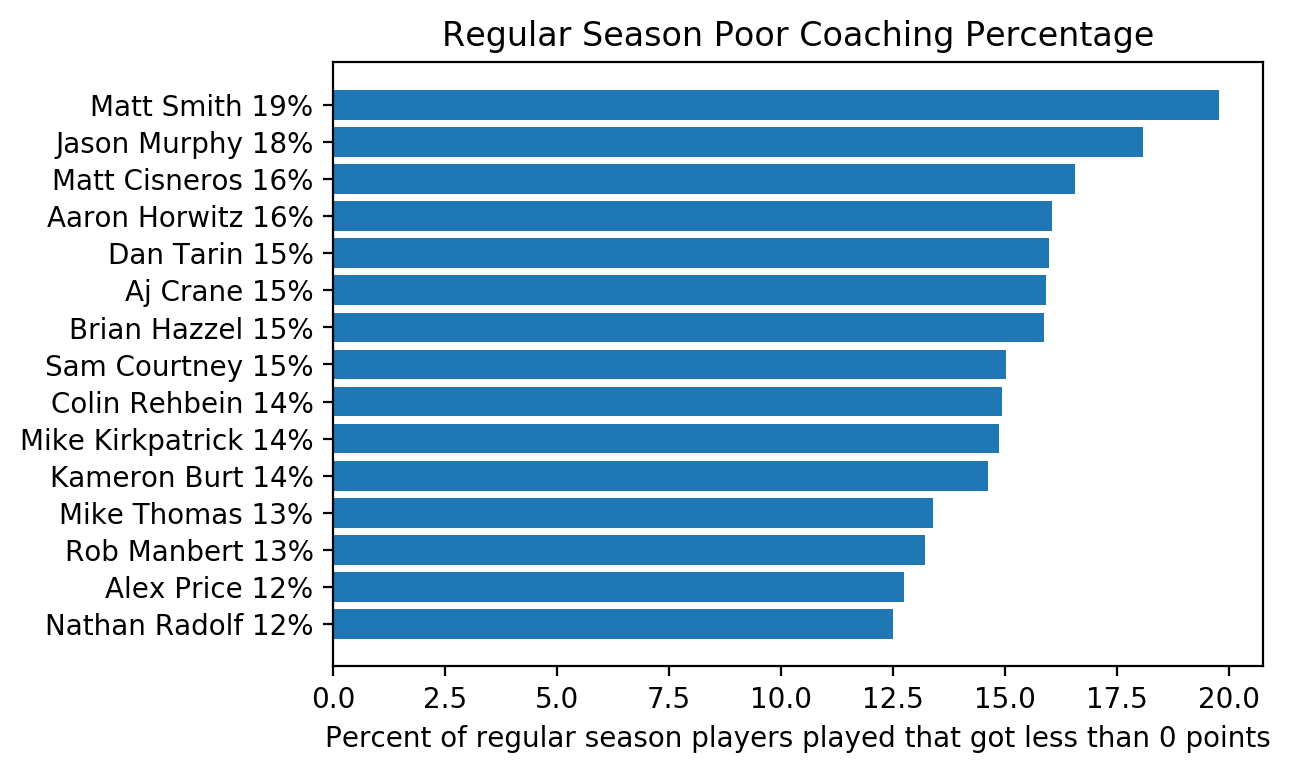
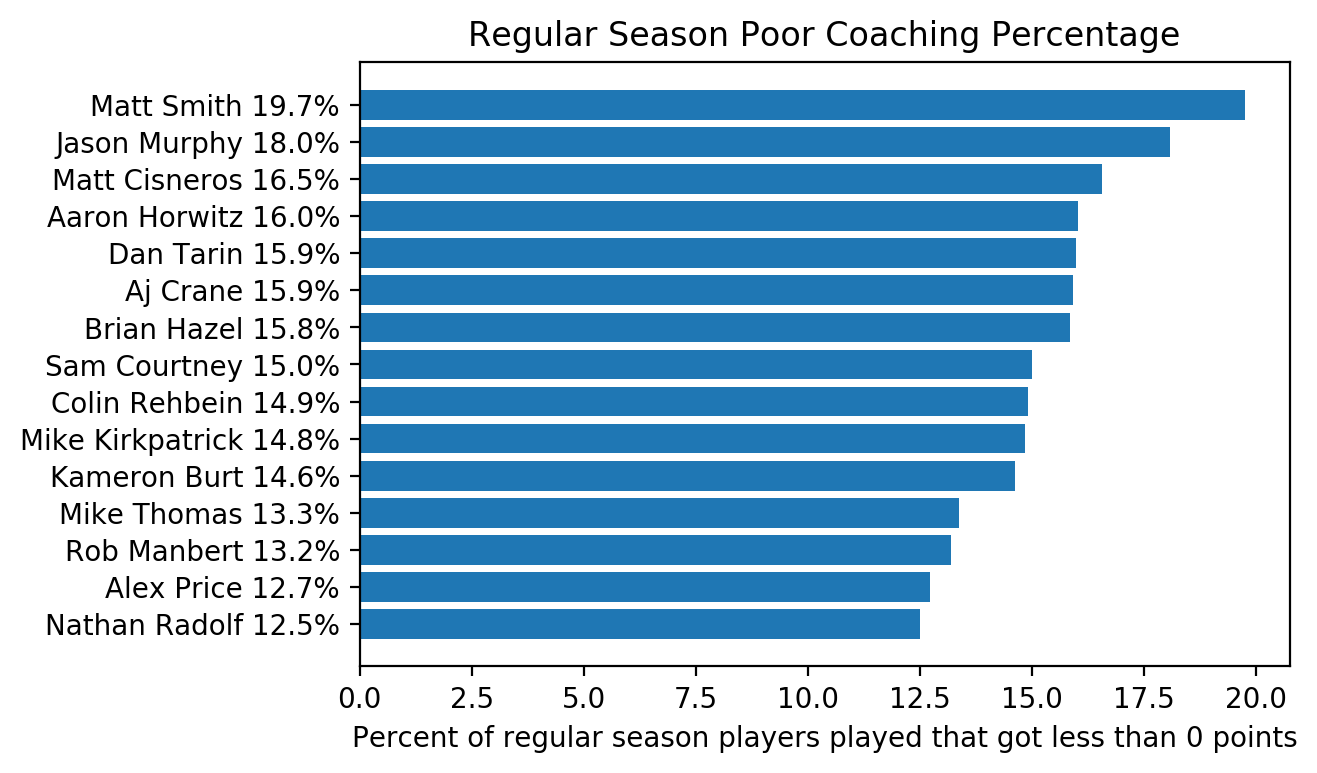
saving work

diff --git a/analyses.py b/analyses.py
@@ -10,15 +10,16 @@ Ideas:
     Regular season:
         -Win percentage
         -Average rank
-        Average points for
-        Average points against
+        -Average points for
+        -Average points against
         -Bullshit wins
         -Shitty losses
-        highest score ever
-        Lowest score ever
-        Bench composition
+        -Highest score ever
+        -Lowest score ever
+        --Bench composition
         -Poor Coaching (players with 0 points not on bench)
-        Transactions
+        -Transactions
+        -Trades
     Playoffs:
         Most appearances
         Most wins
@@ -51,7 +52,7 @@ def assignCoach(row):
     if teamOwner == 'Alex':
         coach = 'Alex Price'
     if teamOwner == 'Brian':
-        coach = 'Brian Hazzel'
+        coach = 'Brian Hazel'
     if teamOwner == 'Colin':
         coach = 'Colin Rehbein'
     if teamOwner == 'Jason':
@@ -140,6 +141,51 @@ oswpDf['playerPosition'] = oswpDf.apply(playerPosition, axis=1)
 
 
 
+#~~~~~~~~~~~~~~~~~~~~~~~~~~~~~~~#
+#     Regular Season Trades     #
+#~~~~~~~~~~~~~~~~~~~~~~~~~~~~~~~#
+def plotRegSeasonAvgTrades(df):
+    measureLabel = 'teamTrades'
+    temp = pd.DataFrame(df.groupby('coach')[measureLabel].mean())
+    temp = temp.sort_values(by=[measureLabel])
+    labels = list(temp.index.values) 
+    y_pos = np.arange(len(temp))
+    newLabels = []
+    for label in labels:
+        newLabel = label +' '+ str(int(temp[measureLabel][label]*10)/10)
+        newLabels.append(newLabel)
+        
+    plt.barh(y_pos, temp[measureLabel])
+    plt.yticks(y_pos, newLabels)
+    plt.title('Regular Season Trades')
+    plt.xlabel('Average number of trades during regular season')
+    plt.savefig('plots/reg_season_trades.png', dpi=200, bbox_inches='tight')
+
+plotRegSeasonAvgTrades(osDf)
+
+
+#~~~~~~~~~~~~~~~~~~~~~~~~~~~~~~~~~~~~~#
+#     Regular Season Transactions     #
+#~~~~~~~~~~~~~~~~~~~~~~~~~~~~~~~~~~~~~#
+def plotRegSeasonAvgTransactions(df):
+    measureLabel = 'teamTransactions'
+    temp = pd.DataFrame(df.groupby('coach')[measureLabel].mean())
+    temp = temp.sort_values(by=[measureLabel])
+    labels = list(temp.index.values) 
+    y_pos = np.arange(len(temp))
+    newLabels = []
+    for label in labels:
+        newLabel = label +' '+ str(int(temp[measureLabel][label]))
+        newLabels.append(newLabel)
+        
+    plt.barh(y_pos, temp[measureLabel])
+    plt.yticks(y_pos, newLabels)
+    plt.title('Regular Season Trasactions')
+    plt.xlabel('Average number of transactions (pickups) during regular season')
+    plt.savefig('plots/reg_season_transactions.png', dpi=200, bbox_inches='tight')
+
+plotRegSeasonAvgTransactions(osDf)
+
 
 #~~~~~~~~~~~~~~~~~~~~~~~~~~~~~~~~~~~~~~~#
 #     Regular Season Win Percentage     #
@@ -152,7 +198,7 @@ def plotRegSeasonWinPct(df):
     y_pos = np.arange(len(temp))
     newLabels = []
     for label in labels:
-        newLabel = label +' '+ str(int(temp[measureLabel][label])) + '%'
+        newLabel = label +' '+ str(int(temp[measureLabel][label]*10)/10) + '%'
         newLabels.append(newLabel)
         
     plt.barh(y_pos, temp[measureLabel])
@@ -160,9 +206,98 @@ def plotRegSeasonWinPct(df):
     plt.title('Regular Season Win Percentage')
     plt.xlabel('Percent of regular season matchups that are wins')
     plt.savefig('plots/reg_season_win_pct.png', dpi=200, bbox_inches='tight')
-    
 
 plotRegSeasonWinPct(osDf)
+
+
+#~~~~~~~~~~~~~~~~~~~~~~~~~~~~~~~~~~~~~~~#
+#     Regular Season Avg Points For     #
+#~~~~~~~~~~~~~~~~~~~~~~~~~~~~~~~~~~~~~~~#
+def plotRegSeasonAvgPointsFor(df):
+    measureLabel = 'teamWeekTotal'
+    temp = pd.DataFrame(df.groupby('coach')[measureLabel].mean())
+    temp = temp.sort_values(by=[measureLabel])
+    labels = list(temp.index.values) 
+    y_pos = np.arange(len(temp))
+    newLabels = []
+    for label in labels:
+        newLabel = label +' '+ str(int(temp[measureLabel][label]))
+        newLabels.append(newLabel)
+        
+    plt.barh(y_pos, temp[measureLabel])
+    plt.yticks(y_pos, newLabels)
+    plt.title('Regular Season Average Points')
+    plt.xlabel('Average points scored in regular season weekly matchups')
+    plt.savefig('plots/reg_season_avg_points_for.png', dpi=200, bbox_inches='tight')
+
+plotRegSeasonAvgPointsFor(oswDf)
+
+
+#~~~~~~~~~~~~~~~~~~~~~~~~~~~~~~~~~~~~~~~~~~~#
+#     Regular Season Avg Points Against     #
+#~~~~~~~~~~~~~~~~~~~~~~~~~~~~~~~~~~~~~~~~~~~#
+def plotRegSeasonAvgPointsAgainst(df):
+    measureLabel = 'teamWeekTotalOpponent'
+    temp = pd.DataFrame(df.groupby('coach')[measureLabel].mean())
+    temp = temp.sort_values(by=[measureLabel])
+    labels = list(temp.index.values) 
+    y_pos = np.arange(len(temp))
+    newLabels = []
+    for label in labels:
+        newLabel = label +' '+ str(int(temp[measureLabel][label]))
+        newLabels.append(newLabel)
+        
+    plt.barh(y_pos, temp[measureLabel])
+    plt.yticks(y_pos, newLabels)
+    plt.title('Regular Season Average Points Against')
+    plt.xlabel('Average points against in regular season weekly matchups')
+    plt.savefig('plots/reg_season_avg_points_against.png', dpi=200, bbox_inches='tight')
+
+plotRegSeasonAvgPointsAgainst(oswDf)
+
+
+#~~~~~~~~~~~~~~~~~~~~~~~~~~~~~~~~~~~~~~#
+#     Regular Season Highest Score     #
+#~~~~~~~~~~~~~~~~~~~~~~~~~~~~~~~~~~~~~~#
+def plotRegSeasonMaxPoints(df):
+    measureLabel = 'teamWeekTotal'
+    temp = pd.DataFrame(df.groupby('coach')[measureLabel].max())
+    temp = temp.sort_values(by=[measureLabel])
+    labels = list(temp.index.values) 
+    y_pos = np.arange(len(temp))
+    newLabels = []
+    for label in labels:
+        newLabel = label +' '+ str(int(temp[measureLabel][label]*10)/10)
+        newLabels.append(newLabel)
+    plt.barh(y_pos, temp[measureLabel])
+    plt.yticks(y_pos, newLabels)
+    plt.title('Regular Season Highest Score')
+    plt.xlabel('Most points ever scored during regular season matchup')
+    plt.savefig('plots/reg_season_max_points.png', dpi=200, bbox_inches='tight')
+
+plotRegSeasonMaxPoints(oswDf)
+
+
+#~~~~~~~~~~~~~~~~~~~~~~~~~~~~~~~~~~~~~#
+#     Regular Season Lowest Score     #
+#~~~~~~~~~~~~~~~~~~~~~~~~~~~~~~~~~~~~~#
+def plotRegSeasonMinPoints(df):
+    measureLabel = 'teamWeekTotal'
+    temp = pd.DataFrame(df.groupby('coach')[measureLabel].min())
+    temp = temp.sort_values(by=[measureLabel])
+    labels = list(temp.index.values) 
+    y_pos = np.arange(len(temp))
+    newLabels = []
+    for label in labels:
+        newLabel = label +' '+ str(int(temp[measureLabel][label]*10)/10)
+        newLabels.append(newLabel)
+    plt.barh(y_pos, temp[measureLabel])
+    plt.yticks(y_pos, newLabels)
+    plt.title('Regular Season Lowest Score')
+    plt.xlabel('Least points ever scored during regular season matchup')
+    plt.savefig('plots/reg_season_min_points.png', dpi=200, bbox_inches='tight')
+
+plotRegSeasonMinPoints(oswDf)
 
 
 #~~~~~~~~~~~~~~~~~~~~~~~~~~~~~~~~#
@@ -176,7 +311,7 @@ def plotRegSeasonRanking(df):
     y_pos = np.arange(len(temp))
     newLabels = []
     for label in labels:
-        newLabel = label +' '+ str(int(temp[measureLabel][label]))
+        newLabel = label +' '+ str(int(temp[measureLabel][label]*10)/10)
         newLabels.append(newLabel)
         
     plt.barh(y_pos, temp[measureLabel])
@@ -216,14 +351,14 @@ def plotBullshitWins(df):
     y_pos = np.arange(len(temp))
     newLabels = []
     for label in labels:
-        newLabel = label +' '+ str(int(temp['bullshitWin'][label])) + '%'
+        newLabel = label +' '+ str(int(temp['bullshitWin'][label]*10)/10) + '%'
         newLabels.append(newLabel)
         
     plt.barh(y_pos, temp['bullshitWin'])
     plt.yticks(y_pos, newLabels)
     plt.title('Bullshit Wins')
     plt.xlabel('Percent of regular season wins that are bullshit')
-    plt.savefig('plots/bullshit_wins.png', dpi=200, bbox_inches='tight')
+    plt.savefig('plots/reg_season_bullshit_wins.png', dpi=200, bbox_inches='tight')
 
 plotBullshitWins(oswDf)
 
@@ -257,14 +392,14 @@ def plotShittyLosses(df):
     y_pos = np.arange(len(temp))
     newLabels = []
     for label in labels:
-        newLabel = label +' '+ str(int(temp['shittyLoss'][label])) + '%'
+        newLabel = label +' '+ str(int(temp['shittyLoss'][label]*10)/10) + '%'
         newLabels.append(newLabel)
         
     plt.barh(y_pos, temp['shittyLoss'])
     plt.yticks(y_pos, newLabels)
     plt.title('Shitty Losses')
     plt.xlabel('Percent of regular season losses that are shitty')
-    plt.savefig('plots/shitty_losses.png', dpi=200, bbox_inches='tight')
+    plt.savefig('plots/reg_season_shitty_losses.png', dpi=200, bbox_inches='tight')
 
 plotShittyLosses(oswDf)
 
@@ -295,7 +430,7 @@ def plotPoorCoaching(df):
     y_pos = np.arange(len(temp))
     newLabels = []
     for label in labels:
-        newLabel = label +' '+ str(int(temp[measureLabel][label])) + '%'
+        newLabel = label +' '+ str(int(temp[measureLabel][label]*10)/10) + '%'
         newLabels.append(newLabel)
         
     plt.barh(y_pos, temp[measureLabel])
@@ -324,31 +459,16 @@ def plotBenchComposition(df):
     
     pivot_df = df.pivot(index='coach', columns=measureLabel, values='percent')
     pivot_df = pivot_df.fillna(0)
-    pivot_df = pivot_df[['QB','RB','WR','TE','K','DEF','DP']]
+    pivot_df = pivot_df[['RB','WR','QB','TE','K','DEF','DP']]
     
     pivot_df.plot.bar(stacked=True)
+    plt.title('Regular Season Bench Composition')
+    plt.xlabel('Percentage breakdown of positions on your bench')
+    plt.savefig('plots/reg_season_bench_composition.png', dpi=200, bbox_inches='tight')
     
-    
-    
-    
-    
-    labels = list(temp.index.values)
-    y_pos = np.arange(len(temp))
-    newLabels = []
-    for label in labels:
-        newLabel = label +' '+ str(int(temp[measureLabel][label])) + '%'
-        newLabels.append(newLabel)
-        
-    plt.barh(y_pos, temp[measureLabel])
-    plt.yticks(y_pos, newLabels)
-    plt.title('Regular Season Poor Coaching Percentage')
-    plt.xlabel('Percent of regular season players played that got less than 0 points')
-    plt.savefig('plots/reg_season_poor_coaching.png', dpi=200, bbox_inches='tight')
-
-plotPoorCoaching(oswpDf)
+plotBenchComposition(oswpDf)
 
 
 
-df = oswpDf
 
 
